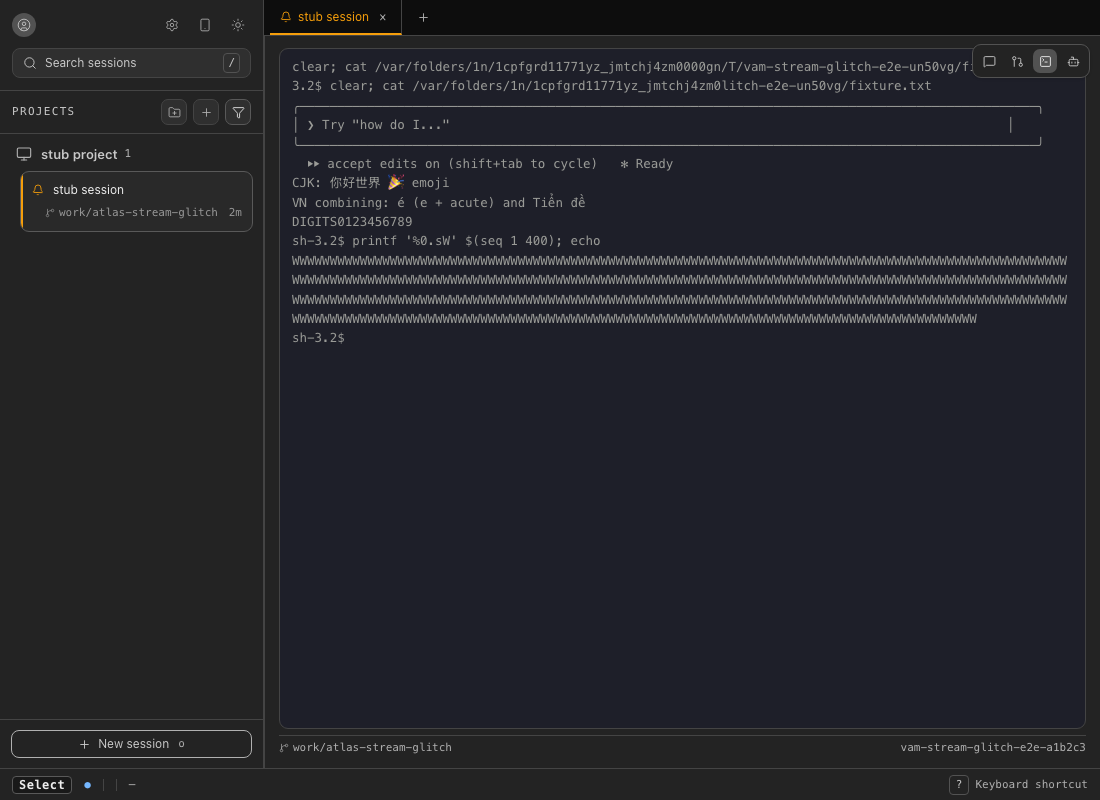
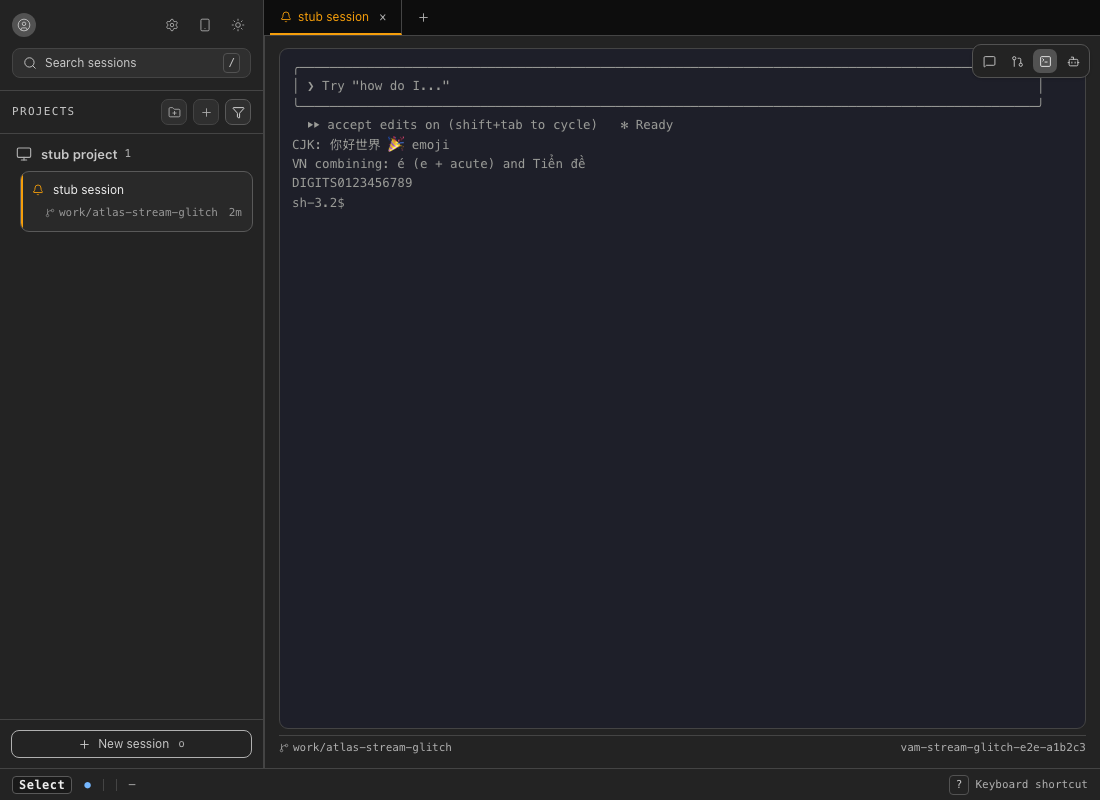
fix(terminal-stream): agree with tmux on wide-glyph width, fix the box fixture's own padding
MEASURED against a real tmux 3.7b (-L socket, #{cursor_x}) and a real
headless @xterm/xterm Terminal: xterm's default Unicode-6 width table
reports width 1 for U+1F389 (party popper emoji), tmux reports width 2 --
every cell after it draws one column off from where tmux placed it, this
task's own "the emoji overlaps the next character". @xterm/addon-unicode11
was measured to agree with tmux exactly for this glyph;
@xterm/addon-unicode-graphemes was measured too and does not (grapheme
clustering answers a different question). Loads Unicode11Addon and sets
term.unicode.activeVersion = '11'; also needed allowProposedApi: true,
which term.unicode throws without.

The second reported defect -- the fixture box's right border not lining up
with the top border's end -- was not a width-table disagreement at all:
BOX_MID's own padding was 74 spaces where the 98-column interior BOX_TOP/
BOX_BOTTOM already use needs 78. Fixed the fixture, not the renderer.

Extends e2e/terminal-stream-glitch-shots.mjs with a new falsifiable check:
a line of wide glyphs (CJK + party-popper emoji) followed by "|" must
place "|" at the same column in xterm's buffer (read from the real
.xterm-cursor element's rendered position, not the row div's own box,
which is always full-row-width regardless of content) as tmux reports.
Falsified by hand (removing the addon reddens it, column 11 vs tmux's 12)
and restored. Also restores the OFF screenshot's own "same fixture"
[…]

Changed region(s): [[0.2473, 0.1562, 0.9891, 0.4062], [0.2782, 0.0625, 0.8655, 0.125], [0.4945, 0.25, 0.5255, 0.2812]]

diff --git a/test/panels/terminal-stream/TerminalStreamTab.test.tsx b/test/panels/terminal-stream/TerminalStreamTab.test.tsx
@@ -20,6 +20,7 @@ import {
 
 const writeCalls: string[] = [];
 const disposeCalls: number[] = [];
+const loadedAddons: unknown[] = [];
 let lastTerm: FakeTerminal | undefined;
 let onDataHandler: ((text: string) => void) | undefined;
 
@@ -41,11 +42,17 @@ class FakeTerminal {
   // computed one. Defaults to `false`: most panes are not running a program
   // that asked for bracketed paste.
   modes: { bracketedPasteMode: boolean } = { bracketedPasteMode: false };
+  // The real `Terminal.unicode` API surface this component touches:
+  // `activeVersion` starts at xterm's own built-in default ('6') until a
+  // provider addon (`Unicode11Addon`) is loaded and this is reassigned.
+  unicode: { activeVersion: string } = { activeVersion: '6' };
   constructor(options: Record<string, unknown>) {
     this.options = { ...options };
     lastTerm = this;
   }
-  loadAddon() {}
+  loadAddon(addon: unknown) {
+    loadedAddons.push(addon);
+  }
   open(container: HTMLElement) {
     container.appendChild(this.textarea);
   }
@@ -71,8 +78,15 @@ class FakeFitAddon {
   }
 }
 
+// A stand-in for the real addon this component loads to correct xterm's
+// default (Unicode 6) width table against tmux's own -- `instanceof` in the
+// wiring test below is what proves THIS addon, not merely *an* addon, was
+// loaded.
+class FakeUnicode11Addon {}
+
 vi.mock('@xterm/xterm', () => ({ Terminal: FakeTerminal }));
 vi.mock('@xterm/addon-fit', () => ({ FitAddon: FakeFitAddon }));
+vi.mock('@xterm/addon-unicode11', () => ({ Unicode11Addon: FakeUnicode11Addon }));
 vi.mock('@xterm/xterm/css/xterm.css', () => ({}));
 
 // Imported AFTER the mocks above are registered (vitest hoists `vi.mock`
@@ -163,6 +177,7 @@ function withDownCapture() {
 beforeEach(() => {
   writeCalls.length = 0;
   disposeCalls.length = 0;
+  loadedAddons.length = 0;
   lastTerm = undefined;
   onDataHandler = undefined;
   FakeResizeObserver.instances = [];
@@ -266,6 +281,17 @@ describe('mounted with a bridge', () => {
       await Promise.resolve();
     });
     expect(writeCalls).toContain('row one\r\nrow two\r\nrow three');
+  });
+
+  it('loads Unicode11Addon and switches to the "11" width table -- xterm’s default (Unicode 6) disagrees with tmux on wide emoji (measured: real tmux reports width 2 for U+1F389, xterm’s default table reports 1)', async () => {
+    withBridge({});
+    render(<TerminalStreamTab projectId="p1" rowId="s1" branch={null} />);
+    await act(async () => {
+      await Promise.resolve();
+      await Promise.resolve();
+    });
+    expect(loadedAddons.some((addon) => addon instanceof FakeUnicode11Addon)).toBe(true);
+    expect(lastTerm?.unicode.activeVersion).toBe('11');
   });
 
   it('a data push for this stream reaches term.write; a push for another stream never does', async () => {

diff --git a/src/renderer/panels/terminal-stream/TerminalStreamTab.tsx b/src/renderer/panels/terminal-stream/TerminalStreamTab.tsx
@@ -20,6 +20,7 @@
  */
 
 import { FitAddon } from '@xterm/addon-fit';
+import { Unicode11Addon } from '@xterm/addon-unicode11';
 import type { ITheme } from '@xterm/xterm';
 import { Terminal } from '@xterm/xterm';
 import '@xterm/xterm/css/xterm.css';
@@ -254,9 +255,36 @@ export function TerminalStreamTab(props: {
           // cursor can carry.
           cursorBlink: false,
           convertEol: false,
+          // REQUIRED for `term.unicode` (read AND written, just below) --
+          // xterm.js gates that whole getter behind this flag and throws
+          // `You must set the allowProposedApi option to true` otherwise
+          // (MEASURED: `Unicode11Addon.activate()` reads `term.unicode` to
+          // register its width provider, so this option has to be set
+          // before that addon is loaded, not merely before `activeVersion`
+          // is assigned).
+          allowProposedApi: true,
         });
         const fit = new FitAddon();
         term.loadAddon(fit);
+        // xterm's OWN default width table (Unicode 6, `term.unicode.
+        // activeVersion === '6'`) disagrees with tmux's about which
+        // codepoints are double-width -- MEASURED against a real tmux 3.7b
+        // on a private `-L` socket: `#{cursor_x}` after printing 🎉 (U+1F389)
+        // reports 2, xterm's default table reports 1. `capture-pane`'s text
+        // dump carries no width information of its own (only the codepoints
+        // tmux already rendered at ITS width), so every cell after a
+        // disagreement draws one column off from where tmux put it -- this
+        // task's own "the emoji overlaps the next character". `Unicode11Addon`
+        // (Unicode 11's East Asian Width data, MEASURED to agree with this
+        // tmux exactly: `#{cursor_x}` 22 vs xterm's `cursorX` 22 for this
+        // file's own CJK/emoji fixture line, both real) fixes it;
+        // `@xterm/addon-unicode-graphemes` was measured too and does NOT
+        // agree (its `cursorX` for the same emoji, activeVersion
+        // '15-graphemes', still reads 1 -- grapheme clustering answers a
+        // different question, "how many codepoints form one glyph", not
+        // "how many columns wide").
+        term.loadAddon(new Unicode11Addon());
+        term.unicode.activeVersion = '11';
         term.open(container);
         // WHERE `I`/A CLICK LANDS. `focus-scope.ts`'s `focusInsertStop` finds
         // the first `data-insert-stop` inside the nearest `data-insert-scope`
